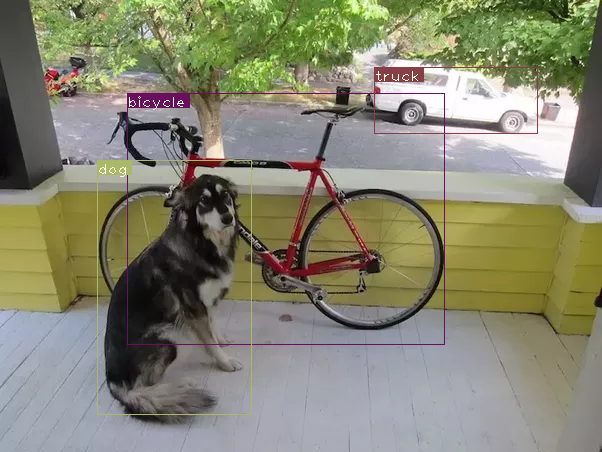
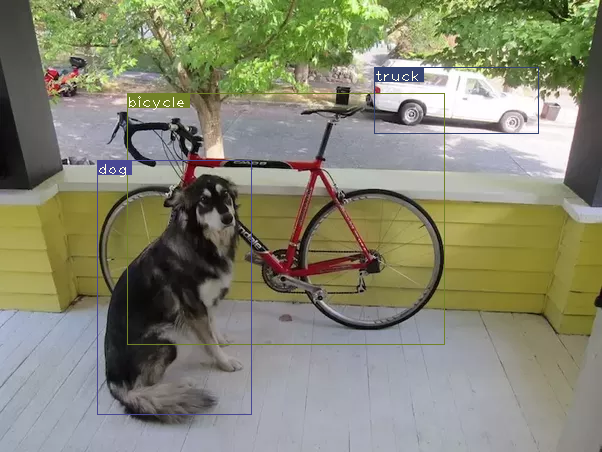
simple push

diff --git a/projects/pytorch-yolov3-tiny/video.py b/projects/pytorch-yolov3-tiny/video.py
@@ -19,7 +19,7 @@ import pickle as pkl
 
 def arg_parse():
     parser=argparse.ArgumentParser(description='YOLO v3 Detection Module')
-    parser.add_argument("--images", dest='images', help="Image / Directory containing images to perform detection upon", default="imgs", type=str)
+    parser.add_argument("--video", dest='video', help="Image / Directory containing images to perform detection upon", required=True, type=str)
     parser.add_argument("--det", dest='det', help="Image / Directory to store detections to", default="det", type=str)
     parser.add_argument("--bs", dest="bs", help="Batch size", default=1)
     parser.add_argument("--confidence", dest="confidence", help="Object Confidence to filter predictions", default=0.5)
@@ -55,13 +55,25 @@ assert inp_dim > 32
 # Set the model in evaluation mode
 model.eval()
 
+# colors used by draw
+colors = pkl.load(open("pallete", "rb"))
 
+
+        
+def cprep_image(orig_im: np.ndarray, inp_dim):
+    """ Prepare image for inputting to the neural network. 
+    Returns a Variable  """
+    dim = orig_im.shape[1], orig_im.shape[0]
+    img = (letterbox_image(orig_im, (inp_dim, inp_dim)))
+    img_ = img[:,:,::-1].transpose((2,0,1)).copy()
+    img_ = torch.from_numpy(img_).float().div(255.0).unsqueeze(0)
+    return img_, orig_im, dim
 
 
 
 def predict(image, testing=False):
     imlist = [image]
-    batches = list(map(prep_image, imlist, [inp_dim for x in range(len(imlist))]))
+    batches = list(map(cprep_image, imlist, [inp_dim for x in range(len(imlist))]))
     im_batches = [x[0] for x in batches]
     orig_ims = [x[1] for x in batches]
     im_dim_list = [x[2] for x in batches]
@@ -91,7 +103,25 @@ def predict(image, testing=False):
 
     return coord, labels
 
-if __name__ ==  '__main__':
-    coords, labels = predict(args.images)
+def draw(img, coords, labels):
+    def helper(img, coord, label):
+        coord = list(map(int, coord))
+        c1 = coord[0:2]
+        c2 = coord[2:4] 
+        img = cv2.rectangle(img, c1, c2, random.choice(colors))
+        img = cv2.putText(img, label, (c1[0], c1[1] + 4), cv2.FONT_HERSHEY_PLAIN, 1, [225,255,255], 1)
     for coord, label in zip(coords, labels):
-        print('detect %s in %r' % (label, coord))
+        helper(img, coord, label) 
+    return img
+
+if __name__ ==  '__main__':
+    video = cv2.VideoCapture('/home/mory/Downloads/test.mp4')
+    while True:
+        ret, frame = video.read()
+        if not ret:
+            print('done!')
+            break
+        coords, labels = predict(frame)
+        img = draw(frame, coords, labels)
+        cv2.imshow('Test', img)
+    cv2.destroyAllWindows()

diff --git a/projects/pyscripts/movie.py b/projects/pyscripts/movie.py
@@ -1,0 +1,6 @@
+# python script to play fun with movie
+
+import moviepy
+from moviepy.editor import VideoFileClip
+
+video = VideoFileClip('/home/mory/Downloads/test.mp4')
